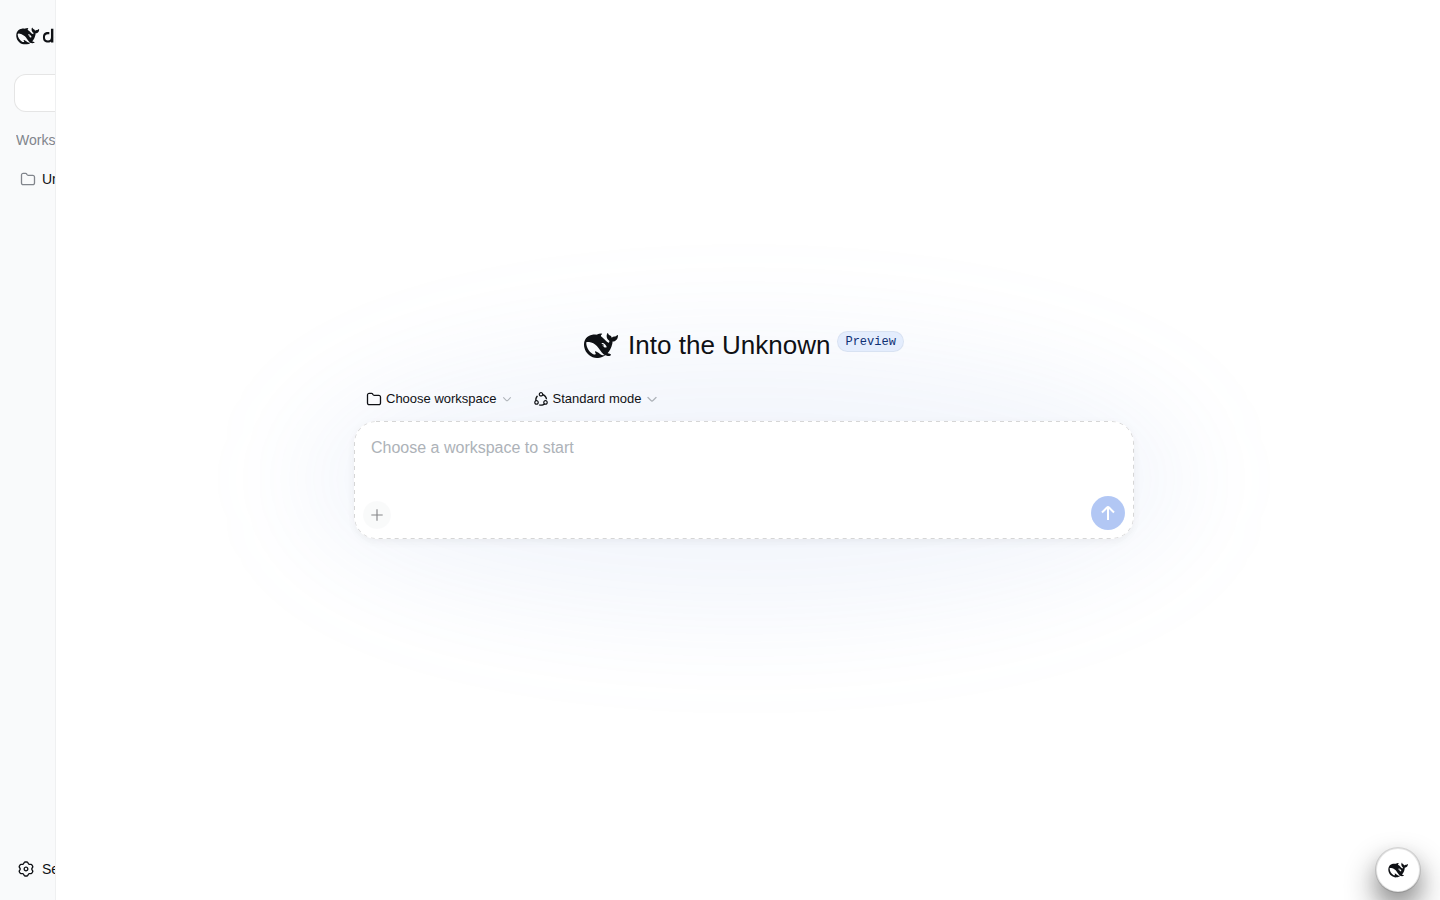
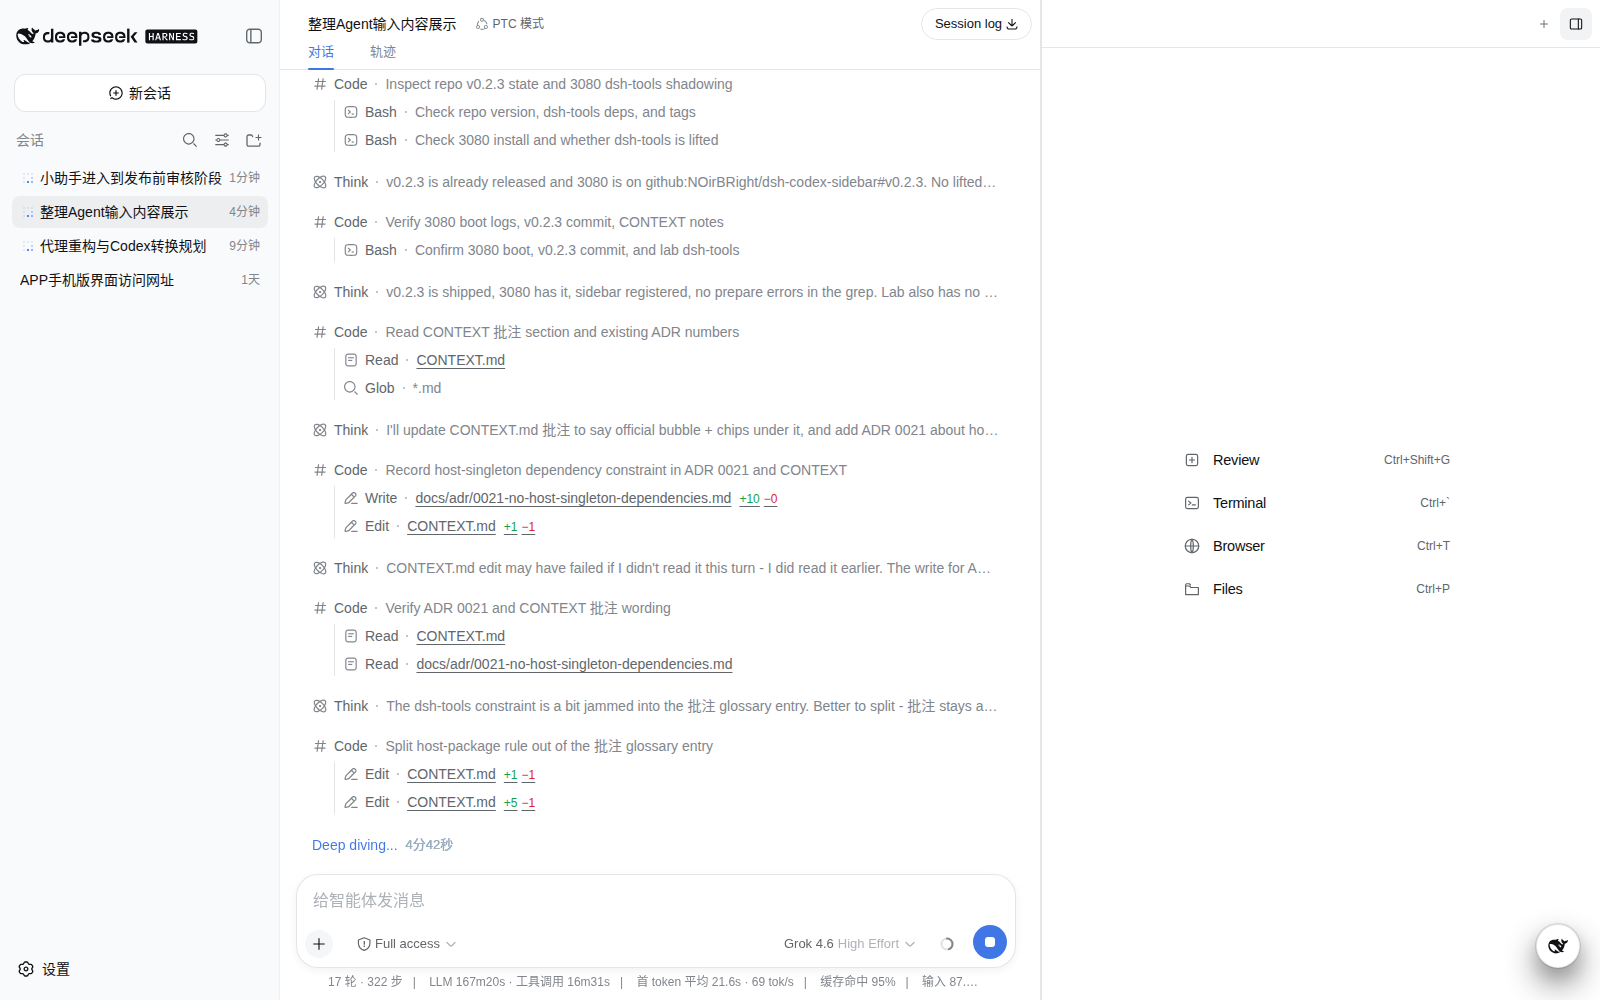
docs: product README with 3080 screenshots
Rewrite the README as a product page and replace the hero shots with captures from the live 3080 window.

diff --git a/README.md b/README.md
@@ -1,39 +1,48 @@
 # DeepSeek 小管家
 
-DeepSeek Harness 右下角的常驻助理。它有自己的对话，不占你的项目会话，也不会出现在会话列表里。
+Harness 里已经有二十几个桌宠。它们做的是皮：跟着当前会话眨眼、忙碌、失败。
 
-你可以跟它聊天、让它设提醒；需要了解当前页面在做什么时，它自己去读，不用先点「引用任务」。
+这个不是。
 
-![关闭时的席位](docs/images/seat-closed.png)
+**小管家是一个真正的 Agent。** 它有自己的会话、自己的历史、自己的提醒，不属于任何一个项目。右下角那只鲸鱼只是它坐的位子。
 
-点开是缩小版对话窗。标题栏可以开一条新对话；输入栏只有模型、上下文和发送。
+![主窗口干活时，鲸鱼坐在右下角](docs/images/seat-closed.png)
 
-![打开的席位叠在主窗口上](docs/images/seat-open.png)
+中间那条会话是你当前任务的手：写文件、跑命令、开终端。角落这只是跨任务的脑子——换项目、换会话，它还在；也不会出现在左边的会话列表里。
 
-![席位面板](docs/images/seat-panel.png)
+![点开席位，叠在正在进行的任务上](docs/images/seat-open.png)
 
-## 它会做什么
+## 你怎么用它
 
-- **一直在。** 换项目、换会话、还没选 workspace，鲸鱼都在。
-- **自己聊。** 历史留在助理会话里，关掉面板也不会打断正在回的那一轮。
-- **按需看任务。** 你问到当前工作，它会调用只读的 `task_reference`。问候和闲聊不会去翻项目。
-- **提醒。** 用自然语言让它到点叫你。浏览器没开也没关系，但 Harness 进程得在跑。
+点鲸鱼。直接说话。
 
-## 它不会做什么
+「我这条任务现在在干什么？」——它自己去读当前页面的任务，不用你先点「引用任务」。打招呼、闲聊、问常识，它不会翻你的项目。
 
-- 不会在你的项目里写文件、改代码、开终端或外派 worker。
-- 不会把整段任务记录复制进席位。
-- 这版还没有「替你往别的会话里投一句」或「去某个项目开新任务」。
+「二十分钟后提醒我看 CI。」——到点会在席位里叫你。浏览器没开也没关系，Harness 进程得在跑。
+
+上下文快满了，点标题栏的「新对话」。它会带一份很短的交接开下一条，旧的归档留下，不会把整本聊天复制过去。
+
+![席位本身：新对话、模型、上下文、发送](docs/images/seat-panel.png)
+
+输入栏没有权限下拉。它本来就不能改你的仓库。
+
+## 它能做什么，不能做什么
+
+能：网上搜、只读看文件、记待办和目标、设提醒、看你贴的图。
+
+不能：bash、写文件、改代码、外派 Codex / Claude / Cursor、去开你的 Browser。
+
+这版也还不会「替你往另一条会话里塞一句」或「去某个项目开新任务」。那是下一截。
 
 ## 安装
 
-需要 DeepSeek Harness Web（`web-app`，`0.1.0-rc.7` 或更新）。
+DeepSeek Harness Web，`0.1.0-rc.7` 或更新。
 
 ```bash
-dsh plugin --profile web add github:NOirBRight/dsh-llm-assistant#v0.1.3
+dsh plugin --profile web add github:NOirBRight/dsh-llm-assistant#v0.1.4
 ```
 
-装上后重启 Web。插件会自行带上官方的提醒和会话引用能力。
+装完重启 Web。提醒和任务引用由插件自己带上，不用另装。
 
 ## 开发
 
@@ -42,10 +51,10 @@ pnpm run check
 pnpm run build
 ```
 
-实验面用 `link:` 指到本仓库，只在 `DSH_HOME=~/.dsh-lab` 的 3082 上看效果。不要把 Workstation 路径写进 `~/.dsh`。
+实验只走 `DSH_HOME=~/.dsh-lab` 的 3082。不要把 Workstation 路径写进 `~/.dsh`。
 
-界面复拍（只打 3082）：
+从正在跑的 Web 复拍界面（默认 3080）：
 
 ```bash
-node scripts/capture-readme.mjs
+CHROME_PROFILE=~/.local/share/dsh-launchers/chrome-web node scripts/capture-readme.mjs
 ```

diff --git a/docs/release-v0.1.4.md b/docs/release-v0.1.4.md
@@ -1,0 +1,31 @@
+# DeepSeek 小管家 v0.1.4
+
+Harness 里已经有二十几个桌宠。它们做皮。这个做脑。
+
+右下角常驻的是一个真正的 Agent：自己的会话、自己的历史、自己的提醒，不属于任何一个项目。
+
+## 长什么样
+
+主窗口在干活，鲸鱼坐在右下角。
+
+![主窗口干活时，鲸鱼坐在右下角](https://github.com/NOirBRight/dsh-llm-assistant/releases/download/v0.1.4/seat-closed.png)
+
+点开叠在当前任务上。标题栏可以开新对话。
+
+![点开席位](https://github.com/NOirBRight/dsh-llm-assistant/releases/download/v0.1.4/seat-open.png)
+
+没有「引用任务」按钮，也没有权限下拉——它不能改你的仓库。
+
+![席位面板](https://github.com/NOirBRight/dsh-llm-assistant/releases/download/v0.1.4/seat-panel.png)
+
+## 安装
+
+```bash
+dsh plugin --profile web add github:NOirBRight/dsh-llm-assistant#v0.1.4
+```
+
+DeepSeek Harness Web，`0.1.0-rc.7` 或更新。装完重启 Web。
+
+## 这版
+
+README 按产品来写，截图改成 3080 上正在跑的真实任务。
